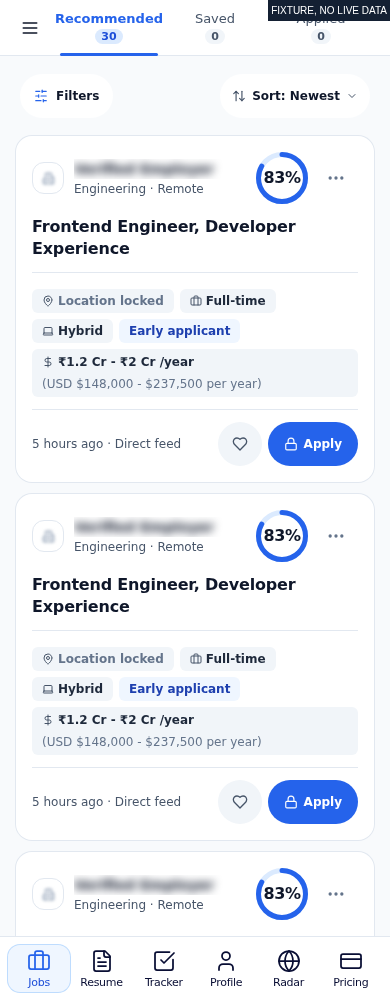
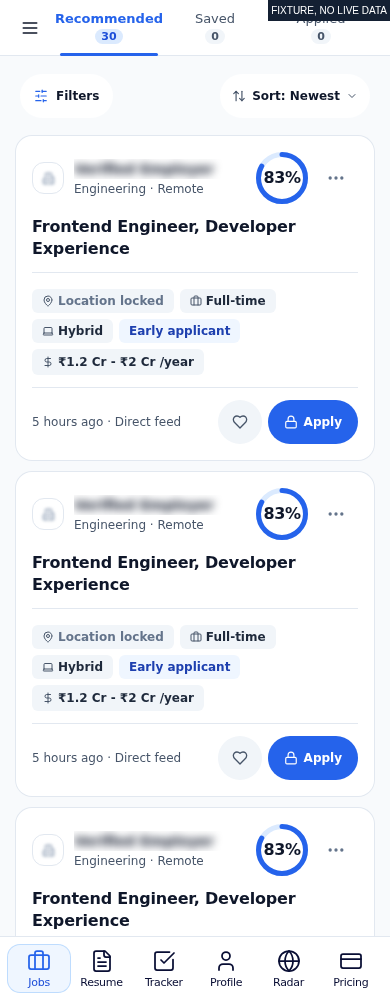
Remove secondary original-currency lines from salary display

diff --git a/src/app/jobs/page.tsx b/src/app/jobs/page.tsx
@@ -2262,17 +2262,11 @@ function JobsPageInner() {
                                   {/* Row 1, Col 3: Salary (highlighted with stronger weight) */}
                                   <div
                                     className="flex items-start gap-1.5 min-w-0 flex-wrap"
-                                    title={job.salary_original && job.salary_original !== job.salary ? `Original: ${job.salary_original}` : undefined}
                                   >
                                     <DollarSign className="w-4 h-4 text-[#475569] shrink-0" />
                                     <span className={`whitespace-normal break-words ${job.salary ? "font-semibold text-[#0F172A]" : ""}`}>
                                       {compactSalaryDisplay(job.salary)}
                                     </span>
-                                    {job.salary_original && job.salary_original !== job.salary && (
-                                      <span className="text-[11px] text-[#64748B] whitespace-normal break-words hidden sm:inline">
-                                        ({job.salary_original})
-                                      </span>
-                                    )}
                                   </div>
 
                                   {/* Row 2, Col 1: Work mode */}
@@ -2516,14 +2510,9 @@ function JobsPageInner() {
                                 )}
                                   <span
                                     className="min-h-6 h-auto max-w-full flex-wrap whitespace-normal break-words px-2.5 py-1 rounded-md bg-[#F1F5F9] text-[#1E293B] text-[12px] font-semibold inline-flex items-center gap-1"
-                                    title={job.salary_original && job.salary_original !== job.salary ? `Original: ${job.salary_original}` : undefined}
                                   >
                                     <DollarSign className="w-3 h-3 text-[#475569]" />
                                     {compactSalaryDisplay(job.salary)}
-                                    {/* Original-currency value visible on touch, not only in a hover title */}
-                                    {job.salary_original && job.salary_original !== job.salary && (
-                                      <span className="font-normal text-[#64748B]">({job.salary_original})</span>
-                                    )}
                                   </span>
                               </div>
 

diff --git a/src/components/jobs/__tests__/mobileFieldParity.test.ts b/src/components/jobs/__tests__/mobileFieldParity.test.ts
@@ -7,14 +7,16 @@ const detail = readFileSync("src/components/jobs/JobDetailView.tsx", "utf8");
 const mobileCard = page.slice(page.indexOf("MOBILE VIEW (under sm"), page.indexOf("{/* Load More"));
 
 describe("mobile field parity (item 20)", () => {
-  it("mobile card keeps location, type, work model, seniority, early-applicant, salary + original, date and source", () => {
-    for (const s of ["locInfo.primary", "formattedJobType", "{workModelLabel(job)}", "{jobLevel}", "Early applicant", "{compactSalaryDisplay(job.salary)", "({job.salary_original})", "formatRelativeTime(job.postedAt)", '"Direct feed" : "Active feed"', "job.category"]) {
+  it("mobile card keeps location, type, work model, seniority, early-applicant, compact salary only, date and source", () => {
+    for (const s of ["locInfo.primary", "formattedJobType", "{workModelLabel(job)}", "{jobLevel}", "Early applicant", "{compactSalaryDisplay(job.salary)", "formatRelativeTime(job.postedAt)", '"Direct feed" : "Active feed"', "job.category"]) {
       expect(mobileCard).toContain(s);
     }
   });
 
-  it("detail keeps salary original, skills, description, Company section and shows the rail (similar jobs, notes) below lg", () => {
-    for (const s of ["job.salary_original", 'id="company-section"', "Similar jobs", "tracker-notes-panel", 'data-testid="mobile-match-score"']) expect(detail).toContain(s);
+  it("detail keeps compact salary, skills, description, Company section and shows the rail (similar jobs, notes) below lg", () => {
+    for (const s of ["compactSalaryDisplay(job.salary)", 'id="company-section"', "Similar jobs", "tracker-notes-panel", 'data-testid="mobile-match-score"']) expect(detail).toContain(s);
     expect(detail).not.toContain("hidden lg:block lg:col-span-5");
+    expect(detail).not.toContain("job.salary_original");
+    expect(page).not.toContain("job.salary_original");
   });
 });

diff --git a/src/components/jobs/JobDetailView.tsx b/src/components/jobs/JobDetailView.tsx
@@ -721,9 +721,6 @@ export default function JobDetailView({
                   <DollarSign className="w-3.5 h-3.5 text-[#166534] shrink-0" />
                   <span className="whitespace-normal break-words min-w-0">
                     {compactSalaryDisplay(job.salary)}
-                    {job.salary_original && job.salary_original !== job.salary && (
-                      <span className="font-normal text-[#64748B]"> ({job.salary_original})</span>
-                    )}
                   </span>
                 </li>
               {expText && (
@@ -798,15 +795,11 @@ export default function JobDetailView({
 
                   <div
                     className="flex items-center gap-2 min-w-0 px-2.5 py-1.5 rounded-lg bg-[#F1F5F9] text-[#475569]"
-                    title={job.salary_original && job.salary_original !== job.salary ? `Original: ${job.salary_original}` : undefined}
                   >
                     <DollarSign className="w-4 h-4 text-[#166534] shrink-0" />
                     <span className="whitespace-normal break-words font-medium text-[#0F172A]">
                       {compactSalaryDisplay(job.salary)}
                     </span>
-                    {job.salary_original && job.salary_original !== job.salary && (
-                      <span className="text-xs text-[#64748B] whitespace-normal break-words">({job.salary_original})</span>
-                    )}
                   </div>
 
                 {expText && (

diff --git a/src/components/jobs/__tests__/mobileDetailDensity.test.ts b/src/components/jobs/__tests__/mobileDetailDensity.test.ts
@@ -9,7 +9,7 @@ const facts = detail.slice(detail.indexOf('data-testid="mobile-job-facts"'), det
 describe("mobile detail density (item 17)", () => {
   it("the compact fact row is mobile-only and carries every fact once", () => {
     expect(detail).toContain('<ul data-testid="mobile-job-facts" aria-label="Job details" className="md:hidden');
-    for (const fact of ["job.location", "Location locked", "workModelLabel(job)", "job.remoteScope", "{job.type}", "{jobLevel}", "{job.category}", "compactSalaryDisplay(job.salary)", "job.salary_original", "{expText}", "formatRelativeTime(job.postedAt || job.date)"]) {
+    for (const fact of ["job.location", "Location locked", "workModelLabel(job)", "job.remoteScope", "{job.type}", "{jobLevel}", "{job.category}", "compactSalaryDisplay(job.salary)", "{expText}", "formatRelativeTime(job.postedAt || job.date)"]) {
       expect(facts).toContain(fact);
     }
   });

diff --git a/docs/compact-free-salary/VERIFICATION.md b/docs/compact-free-salary/VERIFICATION.md
@@ -5,3 +5,7 @@ Salary now appears for active jobs on free/guest listings, recommendations and s
 UI compacts explicitly INR values to Cr or Lakh with one decimal maximum. Foreign salary stays unchanged and is still shown secondarily when provided. Missing salary shows Not disclosed. No FX calculation changed. Direct jobs_public degraded fallback has no source salary to expose, so it shows Not disclosed.
 
 20 final focused tests pass (formatter, free-vs-Pro handlers, mobile field parity/density); typecheck passes. Earlier wider salary/API/component run passed 74 tests. Browser fixture covers free and missing salary feed/detail at 360/390/768/1440, 8 cases with no horizontal overflow. Inspected 390/1440 feed and free/missing detail pixels. Fixture masks free description and skills to match real handler tests. Screenshots predate separate feed-polish PR; they demonstrate salary only. Full suite is CI's gate, no full-suite pass claimed. No merge.
+
+## INR-only display follow-up
+
+Owner removed the secondary USD line. Removed original-currency rendering and hover titles from all four feed/detail salary blocks. API original data stays intact; only UI changes. No FX changes. Rechecked 8 browser cases with explicit no-USD assertions in feed and detail, 7 formatter/UI tests and typecheck pass. Updated 390/1440 screenshots inspected. Recommended route suite previously passed all 40 after updating free salary expectations.
